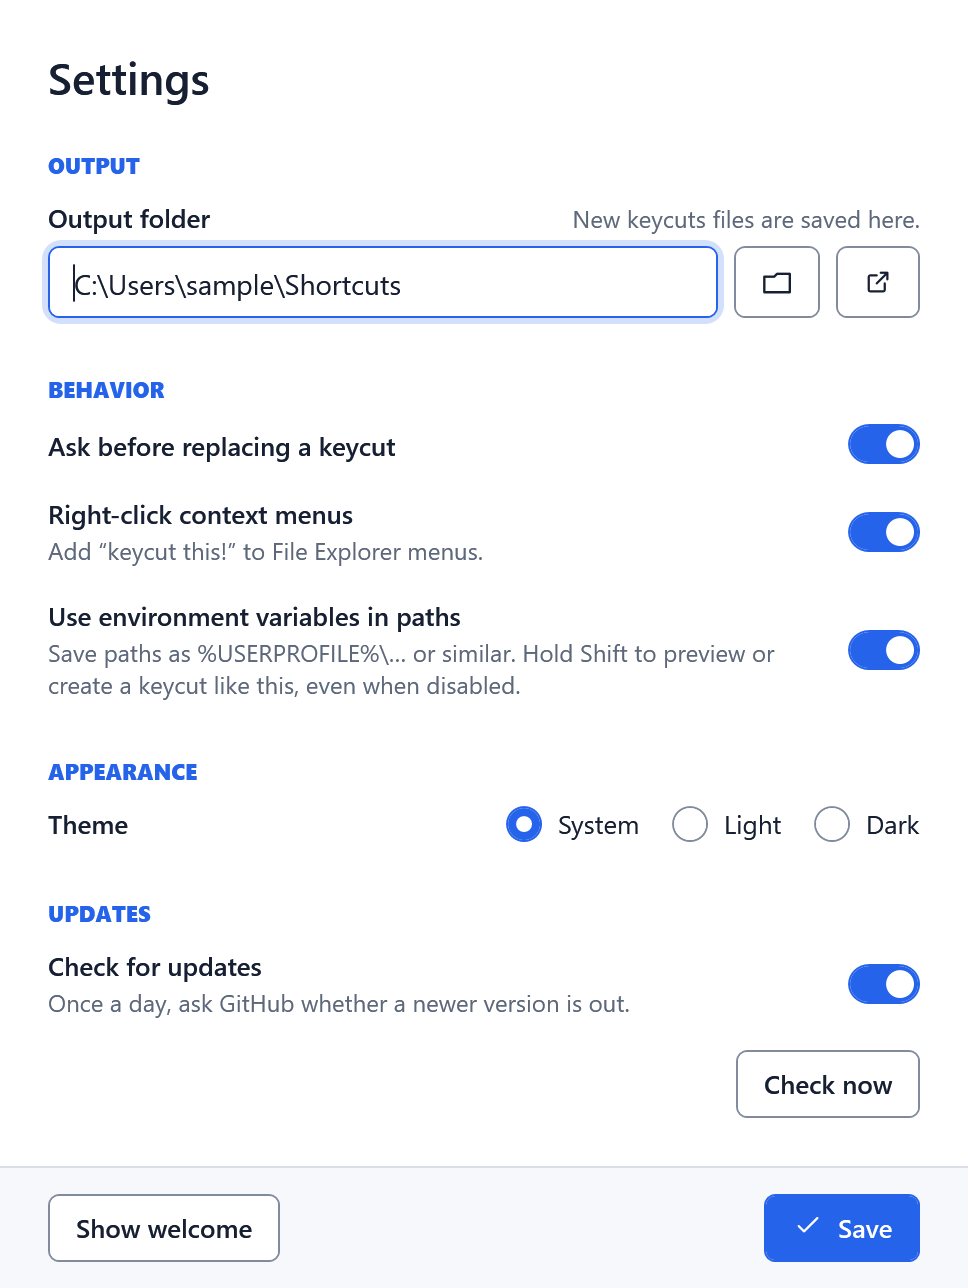
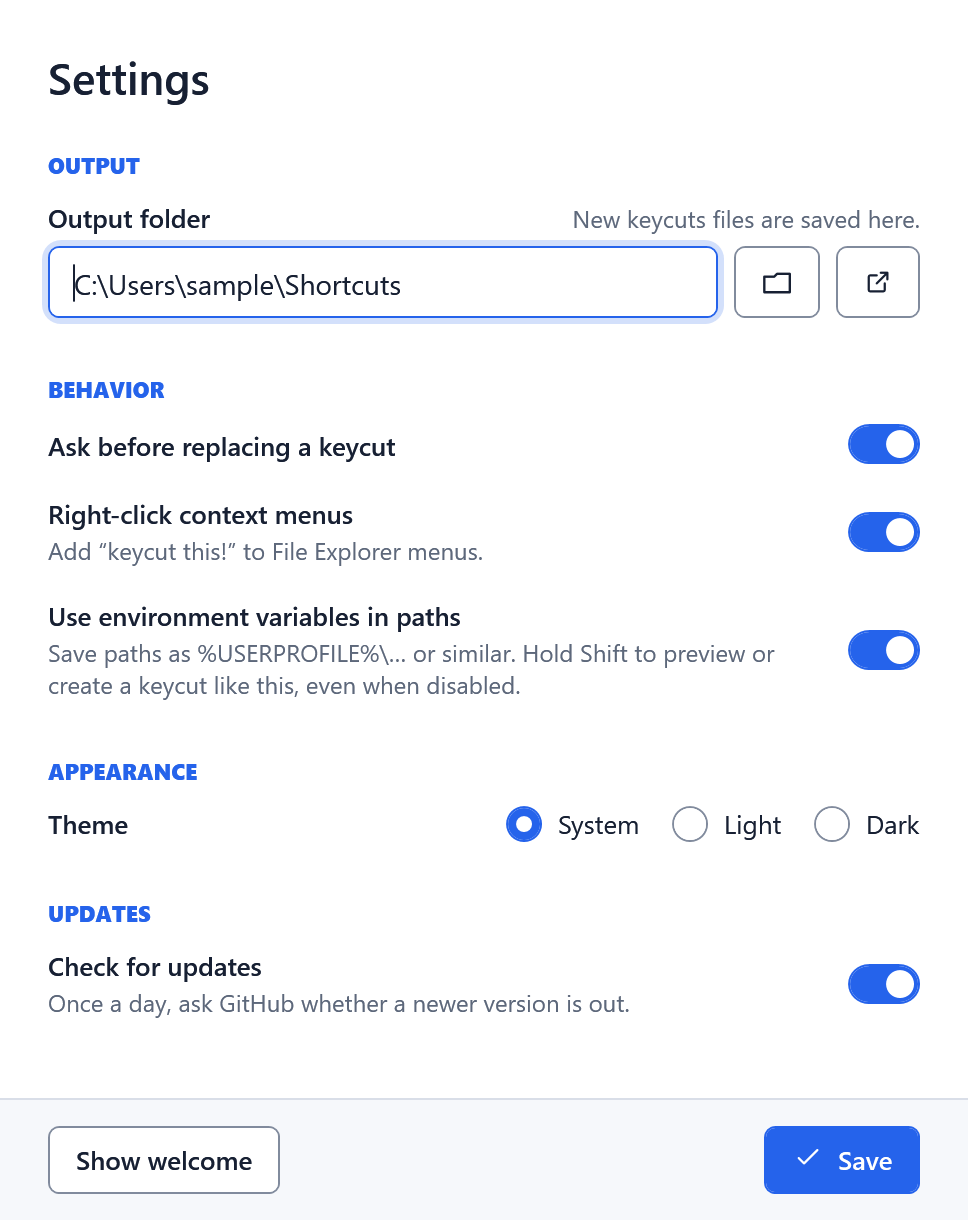
README: trim the screenshots, and say what Undo really restores
Removes the Name warnings section and the screenshots for it and for the Edit form, and
the generator no longer renders them. The Settings screenshot leaves out the whole version
row (the version and Check now), not just the number, so the button isn't left without its
label. A condensed Delete line had dropped the caveats Copilot flagged: drives without a
Recycle Bin delete for good, and Undo restores contents and modified date, not permissions.

diff --git a/keycuts.GUI/SettingsWindow.xaml b/keycuts.GUI/SettingsWindow.xaml
@@ -218,14 +218,14 @@
                                   AutomationProperties.HelpText="Once a day, ask GitHub whether a newer version is out." />
                 </Grid>
 
-                <Grid>
+                <!-- The version, the update status and Check now: hidden only for the README's screenshots -->
+                <Grid x:Name="VersionRow" Visibility="{Binding ShowVersionRow, Converter={StaticResource BoolToVisibility}}">
                     <Grid.ColumnDefinitions>
                         <ColumnDefinition Width="*" />
                         <ColumnDefinition Width="Auto" />
                     </Grid.ColumnDefinitions>
                     <StackPanel VerticalAlignment="Center">
-                        <TextBlock x:Name="CurrentVersionText" Text="{Binding CurrentVersionText}" Style="{StaticResource SettingLabel}"
-                                   Visibility="{Binding ShowVersion, Converter={StaticResource BoolToVisibility}}" />
+                        <TextBlock x:Name="CurrentVersionText" Text="{Binding CurrentVersionText}" Style="{StaticResource SettingLabel}" />
                         <WrapPanel Visibility="{Binding HasUpdateStatus, Converter={StaticResource BoolToVisibility}}">
                             <TextBlock x:Name="UpdateStatusMessage" Text="{Binding UpdateStatusText}" Style="{StaticResource SettingNote}"
                                        AutomationProperties.LiveSetting="Polite" />

diff --git a/keycuts.Tests/SettingsViewModelTests.cs b/keycuts.Tests/SettingsViewModelTests.cs
@@ -1075,9 +1075,10 @@ namespace keycuts.Tests
             return keycuts.GUI.Themes.TextBoxChrome.GetHasError(box);
         }
 
-        // The README's screenshots leave the version out, so they don't go stale at each release (tools/New-Screenshots.ps1)
+        // The README's screenshots leave the version row out (the version and Check now), so they don't go stale at each
+        // release (tools/New-Screenshots.ps1). The button never stays behind without its label.
         [Fact]
-        public void Window_ShowsTheVersionUnlessToldNotTo()
+        public void Window_ShowsTheVersionRowUnlessToldNotTo_AsAWhole()
         {
             RunSta(() =>
             {
@@ -1085,21 +1086,25 @@ namespace keycuts.Tests
                 var checker = UpdateFakes.Checker(new FakeReleaseSource(), new FakeUpdateState(), "1.1.1.0");
                 var store = new FakeSettingsStore { Stored = new Settings { OutputFolder = Path.GetTempPath() } };
                 var shown = new SettingsViewModel(store, updates: checker);
-                var hidden = new SettingsViewModel(store, updates: checker) { ShowVersion = false };
-                Assert.True(shown.ShowVersion);
+                var hidden = new SettingsViewModel(store, updates: checker) { ShowVersionRow = false };
+                Assert.True(shown.ShowVersionRow);
 
                 var window = ShowOffscreen(shown);
                 var other = ShowOffscreen(hidden);
                 try
                 {
                     Assert.True(((TextBlock)window.FindName("CurrentVersionText")).IsVisible);
-                    Assert.False(((TextBlock)other.FindName("CurrentVersionText")).IsVisible);
-                    Assert.True(((Button)other.FindName("BtnCheckNow")).IsVisible);
+                    Assert.True(((Button)window.FindName("BtnCheckNow")).IsVisible);
 
-                    // Turning it on later shows it
-                    hidden.ShowVersion = true;
+                    Assert.False(((FrameworkElement)other.FindName("VersionRow")).IsVisible);
+                    Assert.False(((TextBlock)other.FindName("CurrentVersionText")).IsVisible);
+                    Assert.False(((Button)other.FindName("BtnCheckNow")).IsVisible);
+
+                    // Turning it on later shows all of it
+                    hidden.ShowVersionRow = true;
                     other.UpdateLayout();
                     Assert.True(((TextBlock)other.FindName("CurrentVersionText")).IsVisible);
+                    Assert.True(((Button)other.FindName("BtnCheckNow")).IsVisible);
                 }
                 finally
                 {

diff --git a/keycuts.Tests/ScreenshotTests.cs b/keycuts.Tests/ScreenshotTests.cs
@@ -4,7 +4,6 @@ using System.Collections.Generic;
 using System.IO;
 using System.Linq;
 using System.Threading;
-using System.Threading.Tasks;
 using System.Windows;
 using System.Windows.Controls;
 using System.Windows.Input;
@@ -112,26 +111,14 @@ namespace keycuts.Tests
             creator.ShortcutName = "gmail";
             Render(Host(new CreatorView(), creator, 440, null), folder, "creator-" + suffix);
 
-            // The amber warning for a name something else answers to (#153)
-            var warned = new CreatorViewModel(noop, noop, checkName: TestNameChecks.NoWarnings) { KeycutCount = 7 };
-            warned.Target = @"C:\Program Files\Notepad++\notepad++.exe";
-            warned.TargetKind = KeycutKind.File;
-            warned.ShortcutName = "notepad";
-            warned.SetNameWarning(TestNameChecks.Conflict("notepad", NameConflictEffect.Hidden, @"C:\Windows\notepad.exe"));
-            Render(Host(new CreatorView(), warned, 440, null), folder, "name-warning-" + suffix);
-
             var manager = new ManagerViewModel(noop, noop);
             manager.ShowKeycuts(SampleKeycuts());
             Render(Host(new ManagerView(), manager, 960, 560), folder, "manager-" + suffix);
 
-            // The Edit form (#180)
-            var keycut = SampleKeycuts()[1];
-            Render(Show(new EditWindow(new EditKeycutViewModel(keycut, edit => Task.FromResult(keycut)))), folder, "edit-" + suffix);
-
             // Settings, with the update row the real app has (#171)
-            // without its version line, so the screenshot doesn't go stale at every release
+            // without the version row (the version and Check now), so the screenshot doesn't go stale at every release
             var updates = UpdateFakes.Checker(new FakeReleaseSource(), new FakeUpdateState());
-            var settings = new SettingsViewModel(new SampleStore(), directoryExists: _ => true, updates: updates) { ShowVersion = false };
+            var settings = new SettingsViewModel(new SampleStore(), directoryExists: _ => true, updates: updates) { ShowVersionRow = false };
             Render(Show(new SettingsWindow(settings)), folder, "settings-" + suffix);
         }
 

diff --git a/keycuts.GUI/ViewModels/SettingsViewModel.cs b/keycuts.GUI/ViewModels/SettingsViewModel.cs
@@ -71,7 +71,7 @@ namespace keycuts.GUI.ViewModels
 
         private bool storeChanged;
 
-        private bool showVersion = true;
+        private bool showVersionRow = true;
 
         private string outputFolder = string.Empty;
 
@@ -249,13 +249,14 @@ namespace keycuts.GUI.ViewModels
         }
 
         /// <summary>
-        /// Whether Settings shows <see cref="CurrentVersionText"/>. On, except for the README's screenshots
-        /// (<c>tools/New-Screenshots.ps1</c>), which leave it out so they don't go stale at every release.
+        /// Whether Settings shows the row with <see cref="CurrentVersionText"/>, the update status and Check now. On, except
+        /// for the README's screenshots (<c>tools/New-Screenshots.ps1</c>), which leave the whole row out so they don't go
+        /// stale at every release.
         /// </summary>
-        public bool ShowVersion
+        public bool ShowVersionRow
         {
-            get { return showVersion; }
-            set { SetProperty(ref showVersion, value); }
+            get { return showVersionRow; }
+            set { SetProperty(ref showVersionRow, value); }
         }
 
         public bool CanCheckForUpdates

diff --git a/CLAUDE.md b/CLAUDE.md
@@ -18,7 +18,7 @@ Entry points for creating one: the WPF app (drag/paste/browse a target, name it,
 - On macOS/Linux: `dotnet build keycuts.sln -p:EnableWindowsTargeting=true` and `EnableWindowsTargeting=true dotnet format ...` work, but the tests can't run there (the test host needs the WPF runtime), so CI is the test run.
 - Format check: `dotnet format keycuts.sln --verify-no-changes --severity error` (keep it clean; without `--severity error` it also reports baseline warnings and exits non-zero)
 - Installer: `pwsh -File tools/Build-Installer.ps1 [-Version x.y.z] [-Runtime win-x64|win-arm64]` (the version defaults to `Directory.Build.props`, the runtime to `win-x64`) publishes self-contained to `artifacts/publish/<runtime>` and builds `artifacts/installer/<runtime>/keycuts-setup-<arch>.msi`. Each runtime has its own folders, so building one keeps the other; the WiX build is `--no-incremental` because both share `installer/obj`. Both MSIs share the upgrade code and `AllowSameVersionUpgrades`, so installing one replaces the other. Needs only the .NET SDK; WiX restores from NuGet. `installer/` is deliberately not in `keycuts.sln`, so normal builds stay fast. WiX builds into `en-US/` because of `Package.en-us.wxl`; the script moves the output back up. **Don't install a local MSI over a same-version release without checking the bundled .NET runtime.** The release MSI carries the runtime its CI image had (10.0.8 on 2026-11-12), the local build carries your SDK's (10.0.7), and over the release the install ended "successful" with 22 of 258 files: the newer runtime files were gone and the app host said "You must install .NET Desktop Runtime" (Windows Installer keeps a newer file over an older one, and the old product's removal then deletes it, as far as the logs and the file versions show). Compare `hostfxr.dll` in the two, uninstall the release first, or repair with `msiexec /fa <msi>`, which fixed it.
-- Screenshots: `pwsh -File tools/New-Screenshots.ps1` rewrites `docs/images` (the README's screenshots and its walkthrough GIF; `GifWriter`, in the test project, encodes the GIF, so nothing is downloaded). The GIF is the real creator taken through its states, rendered, not a screen recording, so its Win+R step is a caption card; don't present it as footage. It runs `ScreenshotTests` in Release, which renders the real views off screen with sample keycuts, light and dark, so it doesn't touch the keycuts folder, the registry or PATH. Settings is shown without its version line (`SettingsViewModel.ShowVersion = false`), so a version bump changes no image. The test does nothing unless `KEYCUTS_SCREENSHOTS_OUT` is set (the script sets it), so a normal test run never writes. **Do this when preparing a release**, and when a change moves a screenshotted view; look at the images, then commit only what visibly changed (a rare run can differ in a pixel or two, for instance in the text caret; leave those out).
+- Screenshots: `pwsh -File tools/New-Screenshots.ps1` rewrites `docs/images` (the README's screenshots and its walkthrough GIF; `GifWriter`, in the test project, encodes the GIF, so nothing is downloaded). The GIF is the real creator taken through its states, rendered, not a screen recording, so its Win+R step is a caption card; don't present it as footage. It runs `ScreenshotTests` in Release, which renders the real views off screen with sample keycuts, light and dark, so it doesn't touch the keycuts folder, the registry or PATH. Settings is shown without its version row, the version and Check now (`SettingsViewModel.ShowVersionRow = false`), so a version bump changes no image. The test does nothing unless `KEYCUTS_SCREENSHOTS_OUT` is set (the script sets it), so a normal test run never writes. **Do this when preparing a release**, and when a change moves a screenshotted view; look at the images, then commit only what visibly changed (a rare run can differ in a pixel or two, for instance in the text caret; leave those out).
 
 Gotchas:
 - The build has **0 warnings**. Each project's `AssemblyInfo.cs` declares `SupportedOSPlatform("windows")` by hand; `Directory.Build.props` lets the SDK generate only the version attributes for projects that have one. A new project with its own `AssemblyInfo.cs` needs the same line or CA1416 comes back. Count with `--no-incremental`; an incremental build skips compilation and reports 0.

diff --git a/README.md b/README.md
@@ -23,18 +23,10 @@ The screenshots follow your GitHub theme; the app follows Windows, or the choice
 
 **Creator.** Drop a file, folder, `.lnk` or link on the window (or paste, or **Browse**), type a name, press **Enter**. **Add a description** if you like. On the first run, and whenever your keycuts folder is empty, a welcome panel offers a keycut named `kc` that opens the app.
 
-**Name warnings.** keycuts checks a name the way Win+R looks it up (Windows and System32, your `PATH`, App Paths). It warns when something else would win over the keycut, or when the keycut would hide a program, and asks before replacing a keycut.
-
-<p>
-  <picture>
-    <source media="(prefers-color-scheme: dark)" srcset="docs/images/creator-dark.png">
-    <img src="docs/images/creator-light.png" alt="The creator, ready to create." width="410">
-  </picture>
-  <picture>
-    <source media="(prefers-color-scheme: dark)" srcset="docs/images/name-warning-dark.png">
-    <img src="docs/images/name-warning-light.png" alt="The creator with an amber warning: notepad already opens C:\Windows\notepad.exe." width="410">
-  </picture>
-</p>
+<picture>
+  <source media="(prefers-color-scheme: dark)" srcset="docs/images/creator-dark.png">
+  <img src="docs/images/creator-light.png" alt="The creator, ready to create." width="424">
+</picture>
 
 **Manager.** **View all keycuts** shows a table you can search and sort by any column, including **Modified**. Up/Down and Enter open a row, F2 renames it, and the `...` menu has **Open**, **Edit**, **Edit in Notepad**, **Open file location**, **Copy target** and **Delete**. Missing targets are flagged.
 
@@ -44,20 +36,14 @@ The screenshots follow your GitHub theme; the app follows Windows, or the choice
 </picture>
 
 * **Edit** changes the target, name and description. It's offered only for a keycut the app would have written itself; one you've changed by hand says to use **Edit in Notepad**, so your edits are never lost.
-* **Delete** moves the file to the Recycle Bin. **Undo** (or Ctrl+Z) shows in the status bar for a few seconds and puts it back exactly as it was.
+* **Delete** moves the file to the Recycle Bin (drives without one, such as network shares, delete for good). **Undo** (or Ctrl+Z) shows in the status bar for a few seconds and restores the file's contents and modified date.
 
 **Settings.** The output folder, **Ask before replacing a keycut**, the right-click menu (on Windows 11 under **Show more options**), the theme and update checks. **Use environment variables in paths** (off by default) saves paths like `%USERPROFILE%\Desktop`, so a keycuts folder still works on another PC; hold Shift in the Creator to flip it for one keycut.
 
-<p>
-  <picture>
-    <source media="(prefers-color-scheme: dark)" srcset="docs/images/edit-dark.png">
-    <img src="docs/images/edit-light.png" alt="The Edit form: target, name and description." width="410">
-  </picture>
-  <picture>
-    <source media="(prefers-color-scheme: dark)" srcset="docs/images/settings-dark.png">
-    <img src="docs/images/settings-light.png" alt="The Settings window." width="410">
-  </picture>
-</p>
+<picture>
+  <source media="(prefers-color-scheme: dark)" srcset="docs/images/settings-dark.png">
+  <img src="docs/images/settings-light.png" alt="The Settings window." width="484">
+</picture>
 
 **Updates.** When a newer release exists, the Creator's footer says so and **Download** opens the release page. The app checks at most once a day, with one unauthenticated request to GitHub and no telemetry; the CLI never checks. Turn it off in Settings.
 
